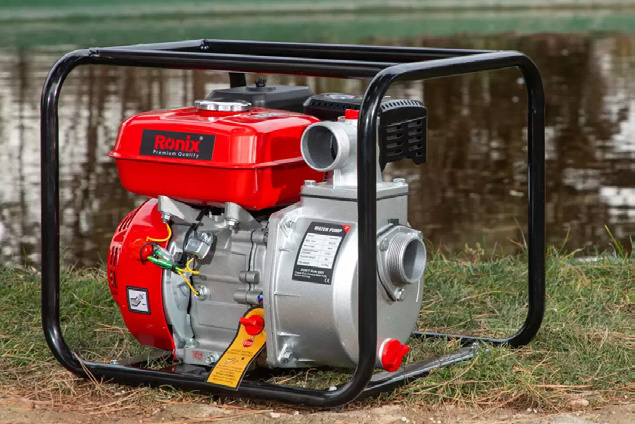
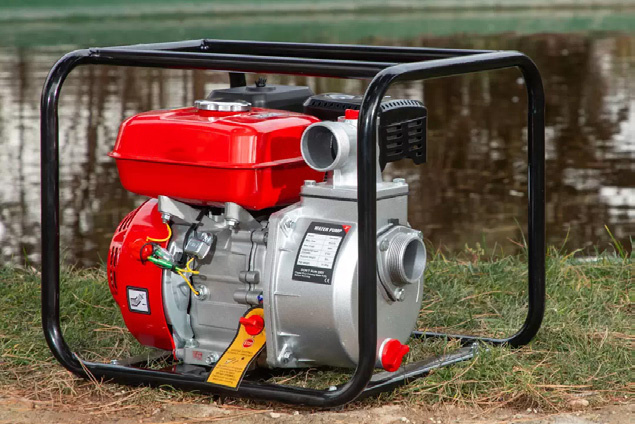
chore: 修正测试配置与站点域名，清理未引用静态资源
- vitest: 别名改为显式声明（vite-tsconfig-paths 在此解析不到，
  失败要到运行期才以 "Cannot find package '@/payload.config'" 暴露）；
  environment 由 jsdom 改 node —— 集成测试要启动真实 Payload 实例，
  jsdom 没有 node: 内置模块和文件系统，test:int 此前死在环境初始化
- tsconfig: 把 tests/ 纳入 typecheck（此前被 exclude，测试里的类型错误
  不会在 CI 的 tsc 步骤暴露）
- .env.example: NEXT_PUBLIC_SITE_URL 由 www.agricon.com 改为 www.agricon.cn。
  .com 那台机器实际在跑一个**无关的 WordPress/WooCommerce 站**，
  照抄示例会让 canonical/sitemap/robots 指向别的网站
- 删除 public/images/ 下 11 张无人引用的图（约 23 MB，含 4.6 MB 的
  home-hero.png；页面 hero 已改走 siteSettings.pageHeroImages）。
  逐个核对过：无任何源码引用，且被引用的 home-hero-agricon.png 仍在
- 更新 3 张产品图（plucker-machine / production-line / water-pump），
  新增 vibrating-screen.jpg 与 og-default.jpg

门禁：typecheck / lint / vitest(67) / build / playwright(12) 全绿

Changed region(s): [[0.2094, 0.3066, 0.3591, 0.3986]]

diff --git a/README.md b/README.md
@@ -17,11 +17,14 @@
 
 - **完整 CMS 后台**（`/admin`）——17 个 Collections 自动生成 CRUD：
   Products / Categories / Subcategories / Solutions / Case Studies / Blog / FAQ / Downloads / Videos / Countries / Inquiries / Newsletter Subscribers / Site Settings 等
-- **六语言本地化**（Payload 原生 i18n），含 RTL（阿拉伯语）支持
+- **六语言本地化**（Payload 原生 i18n + 16 个命名空间的 JSON 文案），含 RTL（阿拉伯语）支持；
+  产品/FAQ/博客内容与页面 `<title>`/描述均已本地化（产品型号保留英文）
 - **移动端优先设计**：44px+ 触控目标、渐进增强、动画系统（滚动显示/过渡/悬浮微交互）
-- **完整 SEO**：六语言 sitemap（72+ URL）、robots.txt、hreflang、JSON-LD、OG/Twitter 卡片
-- **询盘系统**：需求诊断表单（应用场景/现状/采购意图）→ 后台 inquiry 管理
+- **完整 SEO**：六语言 sitemap（468 URL）、robots.txt、canonical/hreflang（含 `x-default`）、
+  JSON-LD（Organization/WebSite/Product/FAQPage/BlogPosting/BreadcrumbList）、OG/Twitter 卡片与默认分享图
+- **询盘系统**：需求诊断表单（应用场景/现状/采购意图）→ 后台 inquiry 管理，含限流与反垃圾
 - **新闻订阅**：全站 Newsletter 组件 → 后台订阅者管理
+- **内容卫生工具**：抓取残留清洗、产品描述修复、翻译流水线（脚本 + 单元测试，见 `docs/MAINTENANCE.md`）
 
 ## 目录结构
 
@@ -44,10 +47,20 @@ src/
 │   ├── home/                # 首页 11 个区块组件
 │   ├── ui/                  # 设计系统原语（Button/Card/Icon/Reveal...）
 │   └── Header.tsx / Footer.tsx / ContactForm.tsx ...
-├── i18n/                    # 翻译（config.ts 全量 + ui.ts 轻量客户端版）
-├── lib/payload.ts           # 数据层（React cache 去重）
-└── proxy.ts                 # 语言路由重定向（Next 16 proxy 约定）
+├── i18n/                    # 翻译（content 在 locales/*.json；config.ts 只做查找）
+│   └── locales/             # 每语言每命名空间一个 JSON 文件（6 语言 × 16 命名空间）
+├── lib/
+│   ├── payload.ts           # 数据层（React cache + unstable_cache 双层缓存）
+│   ├── seo.ts               # canonical/hreflang/metadata/OG 默认图
+│   ├── structured-data.ts   # JSON-LD 构造器（Organization/Product/FAQPage/...）
+│   ├── supplier-text.ts     # 抓取文案清洗（标签、字面量转义、摘要截断）
+│   ├── public-write-guard.ts # 公开写接口的限流 + 反垃圾（beforeValidate hook）
+│   └── rate-limit.ts / anti-spam.ts
+└── proxy.ts                 # 语言路由重定向 + x-pathname（Next 16 proxy 约定）
 ```
+
+> **接手维护先读 [`docs/MAINTENANCE.md`](docs/MAINTENANCE.md)** — 架构地图、常见任务 runbook、
+> 已知坑与排错清单都在那里；本 README 偏「是什么」，那份文档偏「怎么改」。
 
 ## 本地开发
 
@@ -77,20 +90,105 @@ CATALOG_DIR=/path/to/catalog pnpm catalog:import
 
 画册导入会更新英文 CMS 内容，并将产品主图复制到 `public/catalog/products`。
 
-### 多语言内容翻译
+### 多语言内容翻译（CMS 内容）
 
-六语言（en/ru/fr/es/sw/ar）的 CMS 内容（分类、产品、方案、案例）由 LLM 翻译并存入本地化表。翻译文件位于 `scripts/translations/*.json`：
-
-- `{lang}.json` — 分类/子分类/产品特性/方案/案例的短文本
-- `{lang}-products.json` — 产品描述
-
-修改翻译后重新入库（幂等，会更新已有行）：
+CMS 内容的翻译走**三步流水线**，幂等，可对本地 SQLite 或生产 Postgres 执行：
 
 ```bash
-node scripts/import-translations.mjs
+pnpm tsx scripts/i18n-extract-todo.ts          # 1. 导出待翻译清单 → scripts/translations/_todo/
+#    用 LLM/译者把 _todo/<lang>-{ui,content}.json 翻译为 <lang>-…-translated.json
+pnpm tsx scripts/i18n-apply-todo.ts            # 2. 先 dry-run，看会改哪些字段
+pnpm tsx scripts/i18n-apply-todo.ts --apply    # 3. 写回 JSON 文案 + CMS 内容
 ```
 
-> 产品名保留英文技术术语；`seo_title` 按 `{产品名} | Agricon {语言后缀}` 自动生成；`seo_description` 复用翻译后的描述。
+- 导出**只包含缺失或与英文逐字相同**的字符串，所以重复运行不会重复翻译，也不会覆盖已润色的译文。
+- 应用时逐条回读断言，失败打印 `✗`，不会出现「报告成功但没写进去」。
+- 翻译键：产品/子分类等按 **slug**；产品特性与规格标签按**英文原文**（同一句只翻一次，43 个产品共享词表）。
+- `_todo/` 与 `*-translated.json` 都入库，可追溯每句话的来源与时间。`--round2` 只导出「产品描述 + FAQ 答案」，用于内容修复后的补翻。
+- 支持 `--lang=ru`、`--round=1|2` 限定范围。
+
+> **产品名保留英文**（`H-Type Layer Cage` 这类型号正是海外买家搜索的词），翻译的是描述、特性、
+> 规格标签、SEO 文案与页面元数据。
+>
+> 产品 FAQ 答案是 richText：应用时以**英文文档为模板**只替换文本，避免手搓 Lexical 结构被
+> Payload 校验拒绝（`The following field is invalid: Answer`）。
+>
+> 历史包袱：上一版 `import-translations.mjs` 按 `_parent_id` 写入，而 9 月的画册重导入换掉了
+> 所有产品 ID，脚本指向的是一套已经不存在的 64 条记录 —— 它从未真正生效过，已删除。
+
+### SEO 与结构化数据
+
+| 项目 | 实现 | 说明 |
+|---|---|---|
+| canonical / hreflang | `src/lib/seo.ts` → `localizedAlternates()` | 6 语言 + `x-default`，逐页校验 0 例外 |
+| 页面 metadata | `pageMetadata(locale, { path, namespace, key })` | 文案优先级：`t.meta.*` → `t.hero.*` → 调用方英文兜底，因此标题/描述随语言走 |
+| Open Graph / Twitter | 同上 + `DEFAULT_OG_IMAGE` | 默认分享图 `public/images/og-default.jpg`（1200×630，约 130 KB，`node scripts/generate-og-image.mjs` 可重新生成） |
+| JSON-LD | `src/lib/structured-data.ts` + `<JsonLd>` | 全站 `Organization` + `WebSite`（含 SearchAction）；产品页 `Product` + `BreadcrumbList`；FAQ 页 `FAQPage`；博客/案例详情 `BlogPosting` |
+
+> 之前这四项里有两项是**声明了但不存在**的：README 写着「完整 SEO：JSON-LD」，实际全站 0 处
+> `application/ld+json`；`og:image` 只在产品详情页有，其余页面分享出去没有缩略图
+> （`payload.config.ts` 里那张图只作用于 Payload 后台）。
+>
+> 结构化数据只在**有真实数据时**输出字段：`offers` 仅在价格能解析出金额且带币种时写入 ——
+> 一个没有价格的 `Offer` 会让 Google 整条 `Product` 失效。
+
+### 抓取内容卫生
+
+产品文案来自阿里国际站抓取，带有三样必须在入库前后清理的脏数据：
+
+```bash
+pnpm tsx scripts/cleanup-supplier-copy.ts --check   # CI：还有残留就退出 1
+pnpm tsx scripts/cleanup-supplier-copy.ts --apply   # 清洗（幂等，所有语言）
+pnpm tsx scripts/repair-product-copy.ts  --apply    # 重新派生被截断的产品描述
+```
+
+| 脏数据 | 例子 | 处理 |
+|---|---|---|
+| 供应商页面标签 | `Product descriptions from the supplier Report abuse Highlights at a glance` | `src/lib/supplier-text.ts` 的 `stripSupplierBoilerplate()`，导入时与存量数据都清 |
+| 导航栏文字 | `Product Overview Complete Farm Solution Proof of Execution Project Cases` | 同上（标签表可扩展） |
+| 字面量转义 | 特征值是 12 个字符的 `\uD83C\uDFED` 而不是 🏭 | `decodeLiteralUnicodeEscapes()`，文本/HTML/数组字段全覆盖 |
+| 截断描述 | `"This 4."`、`"…by up to 80 perce"` | `repair-product-copy.ts` 用产品自身的 `overviewHtml` 重新派生，`summarizeCopy()` 按句子→词边界截断，绝不切半个词 |
+
+导入脚本（`scripts/import-alibaba-catalogue.ts`）已改为调用同一套函数，因此**重新导入不会把脏数据带回来**。
+
+### 分类归属与重复产品
+
+```bash
+pnpm tsx scripts/move-subcategory.ts --from=<旧子分类> --to=<新子分类>        # 预演，加 --apply 执行
+pnpm tsx scripts/delete-product.ts   --slug=<要删的> --redirect-to=<要留的>   # 预演，加 --apply 执行
+```
+
+分类卡的顺序与名称由 `sortOrder` / `name` 决定，顺序不本地化、改一次 6 种语言同时生效：
+
+```bash
+pnpm tsx scripts/reorder-subcategories.ts --category=<分类 slug> --order=slug1,slug2,... --apply
+pnpm tsx scripts/reorder-subcategories.ts --category=<分类 slug> --rename=<slug>:"New Name" --locale=en --apply
+```
+
+分类的顺序和英文名以 `docs/scrape/taxonomy-*.json`（用户指定的分类稿）为准。
+
+改产品名称而不动 URL（`name` 与 `seoTitle` 按语言存储，脚本会把 6 种语言一起写并读回校验）：
+
+```bash
+pnpm tsx scripts/rename-products.ts --rename=<slug>:"New Name" --apply
+```
+
+按客户给的产品清单**增量补产品**（不清库；已存在的只改名/移动，缺的才新建）：
+
+```bash
+pnpm tsx scripts/import-links.ts           # 预演
+pnpm tsx scripts/import-links.ts --apply    # 执行
+```
+
+读取 `docs/scrape/alibaba-links-*.jsonl`（BrowserSkill 抓的页面数据）+
+`docs/scrape/import-names-*.json`（sku → 子分类 + 型号级名称）。细节见
+[`docs/MAINTENANCE.md`](docs/MAINTENANCE.md) §3.12 与 §11。
+
+两条都会改产品 URL（URL 里含分类/子分类），**必须**把脚本打印的 308 重定向贴进 `next.config.ts`。
+分类归属以 `docs/scrape/taxonomy-*.json` 的 `groups` 为准，不要按子分类名字猜；细节见
+[`docs/MAINTENANCE.md`](docs/MAINTENANCE.md) §3.9 与 §10。
+
+> 目前有 49 个子分类暂时没有产品（未来会上），点进去的 "Products Coming Soon" 是**预期行为**，不要删。
 
 ### 设计系统
 
@@ -112,22 +210,92 @@ node scripts/import-translations.mjs
 
 > ⚠ **SQLite schema 同步（重要）**：本机 `PAYLOAD_PUSH_SCHEMA=false` 已写入 `.env`。
 > `@payloadcms/db-sqlite` 的 push 模式在 Windows/libsql 上会反复尝试创建已存在的索引并崩溃
-> （`index xxx already exists`）。修改 collection 字段后需手动同步开发库，例如：
+> （`index xxx already exists`），因此**开发库的 schema 必须手动同步**。
+>
+> 修改 collection 字段后运行：
 >
 > ```bash
-> # 添加缺失列（videos 表曾缺 platform/published）
-> node -e "const {createClient}=require('@libsql/client');const db=createClient({url:'file:agricon-dev.db'});(async()=>{await db.execute(\"ALTER TABLE videos ADD COLUMN platform TEXT DEFAULT 'youtube'\");await db.execute(\"ALTER TABLE videos ADD COLUMN published INTEGER DEFAULT 1\");})()"
+> pnpm tsx scripts/sync-dev-schema.ts --check   # 只报告差异，有差异时退出码 1
+> pnpm tsx scripts/sync-dev-schema.ts           # 补齐缺失的表/列（幂等）
 > ```
 >
+> 该脚本只增不减：只创建缺失的表/列/索引，绝不删除或改动已有数据。
+>
+> **为什么必须做**：`Products` 曾新增 `faqs` 与 `detailImages` 两个数组字段，但对应的
+> `products_faqs` / `products_detail_images` 表从未创建。结果是**每一次**
+> `payload.find({ collection: 'products' })` 都报
+> `SQLITE_ERROR: no such table: products_faqs` —— 产品列表、全部产品详情页、
+> 首页产品区块和 sitemap 全部失效，`src/payload-types.ts` 也随之漂移。
+> 脚本已修复本机开发库（此前 11 个缺失对象）。
+>
+> 同步 schema 后记得重新生成类型：`pnpm generate:types`。
+
+> ### 生成类型不入库（重要）
+>
+> `src/payload-types.ts` 被 `.gitignore` 忽略，**不存在于仓库中**。因此任何全新克隆都必须
+> 先生成它，否则 `tsc` 会因 `Product.faqs` 等字段缺失而报错。已把生成步骤接入脚本：
+> `pnpm test`、`pnpm ci`、`pnpm vercel-build` 都会先执行 `payload generate:types`。
+
 > ### 种子内容（后台与前台对齐）
 >
-> 前台曾用硬编码 fallback 展示博客/FAQ，导致后台管理无效。内容已导入 CMS：
+> 前台曾有硬编码 fallback 展示博客/FAQ，导致后台管理无效。内容已导入 CMS：
 >
 > ```bash
 > pnpm tsx scripts/seed-fallback-content.ts   # 3 篇博客 + 8 条 FAQ（幂等）
 > ```
 >
-> 前台仍有 fallback 作为空库兑底（数据库为空时展示），后台添加/编辑内容后会优先使用数据库数据。
+> ### 方案 ↔ 产品双向关系同步
+>
+> `solutions.products` 与 `products.solutions` 是**两个各自独立的字段**，Payload 不会自动同步。
+> 画册导入脚本只写了 `products.solutions`（56 行），`solutions.products` 全为空，
+> 因此后台打开方案看不到任何产品。运行：
+>
+> ```bash
+> pnpm tsx scripts/sync-solution-products.ts --check   # 只报告差异
+> pnpm tsx scripts/sync-solution-products.ts           # 补齐（幂等，只增不删）
+> ```
+
+## 渲染与缓存策略
+
+前台页面（`src/app/(frontend)/[locale]/**`）**使用 `force-dynamic` 按请求渲染**，而不是静态生成。
+这是一个刻意的取舍，原因写在 `[locale]/layout.tsx`：数据库内容在请求时读取，
+`next build` 因此不需要连接生产数据库，首次部署到 Vercel 时由 Payload push 建表，构建不会失败。
+
+代价是每次请求都会查询数据库。为了把成本压下来，数据层（`src/lib/payload.ts`）套了两层缓存：
+
+| 层 | 机制 | 作用 |
+|---|---|---|
+| 跨请求 | `unstable_cache`（TTL 300s，站点设置 60s） | 同一 collection 每 5 分钟才真正查一次库 |
+| 单次渲染内 | React `cache()` | 首页 8+ 个区块各自请求同一 collection 时只查一次 |
+
+两点实现细节：
+
+- **查询深度是性能关键**。`getProducts` 使用 `depth: 1`。用 `depth: 2` 时 Payload 会额外展开
+  `product.solutions`，而方案与产品是**双向关系**，每个被展开的方案会把自身的 `products`
+  数组再带回来——结果从 503KB 膨胀到 8.1MB（每个语言、每次请求），并且超过 Next 数据缓存
+  2MB 上限而根本无法缓存。需要分类 slug 时用 `resolveProductCategorySlug()` 从
+  （同样被缓存的）子分类列表里查。
+- 在没有 Next 请求上下文的环境（Vitest、`scripts/*.ts`）调用数据层时，
+  `unstable_cache` 会抛 `incrementalCache missing`；缓存层会捕获该错误并降级为直连查询，
+  同时打印一次提示。
+
+后续若要改为静态生成，需要先把 `[locale]/layout.tsx` 中对 `headers()` 的依赖
+（`x-pathname` → hreflang/canonical、`<html lang>`）改为由路由 `params` 推导。
+
+## 公开写接口的防护
+
+`/api/inquiries` 与 `/api/newsletterSubscribers` 必须允许匿名写入（联系表单不能要求登录）。
+为避免被脚本刷库与邮件轰炸，加了两层防护：
+
+- **限流**：`src/lib/rate-limit.ts`，每 IP 每 10 分钟 5 次，超限返回 `429`。
+  计数器在进程内存中，因此在 Vercel 上是**按实例**生效（N 个热实例 ≈ 上限 ×N），
+  而非全局硬上限。需要严格全局限制时把 `consume()` 换成共享存储（Redis/KV），调用点不用改。
+- **反垃圾**：`src/lib/anti-spam.ts`，蜜罐字段（`companyWebsite`）+ 提交耗时校验
+  （2.5 秒 ~ 12 小时）+ 关键词/链接数/拉丁字段西里尔字母启发式。被判定为垃圾时返回 `400`，
+  且**不告诉提交者**是哪一项触发的。
+- 已登录的后台用户跳过启发式校验（他们没有蜜罐/时间令牌）。
+
+两个集合都通过 `virtual: true` 声明蜜罐字段，所以它永远不会被写入数据库，也不会出现在后台表单里。
 
 ## 环境变量
 
@@ -161,31 +329,36 @@ node scripts/import-translations.mjs
 
 本地开发管理员：`admin@agricon.com`（密码见本地 scripts 或首次创建）。
 
-## 上线检查清单（2026-08 已全部验证）
+## 上线检查清单（2026-09-18 全站复检）
 
 ### ✅ 页面与数据
 
-- 6 语言 × 14 主要页面全部 200（首页 308 重定向正常）
-- 43 产品 / 10 分类 / 70 子分类 / 12 案例 / 6 方案 全部可访问
-- 354 个代码引用的 catalog 图片文件全部存在；全站扫描 0 破损图片、0 4xx、0 控制台错误
-- 数据库无孤儿引用、无空/重复 slug；media 全有 url；产品全有图
-- 首页 hero 已本地化 5 语言；各页面 hero 图片后台可配（`siteSettings.pageHeroImages`）
+- sitemap 468 个 URL（6 语言 × 78）全部 200；0 坏页、0 死链、0 破损图片（793 个资源按 GET 校验）
+- canonical / hreflang（含 `x-default`）逐页正确：468 页 0 例外；`lang` / `dir`（ar = rtl）正确
+- 每页恰好 1 个 `h1`，`<img>` 全部有 alt，404 页正常返回 404，manifest 正常
+- 每页都有 JSON-LD：`Organization` + `WebSite`，产品/FAQ/博客页另有对应类型
+- CMS 内容本地化覆盖率：products 43/43、faqs 8/8、blogPosts 3/3 在 5 种语言下均非英文
+- 界面文案：非英语语言的「与英文逐字相同」比例从 41% 降到 **2%**
 
 ### ✅ 功能与交互
 
 - 搜索（`/search?q=`）正常；语言切换保持当前路径（`/en/about → /ru/about`）
-- 移动端 13 页无横向溢出；汉堡菜单正常
-- 产品详情页：画廊缩略图单排滑动 + 大图箭头切换；Technical Information sticky；
-  两列等高；无价格/MOQ/噪音标签（Agricon…、alibaba-… 已过滤）
-- 产品页 “Request Quote” → 联系表单自动预填产品名
-- 询盘表单提交 → 后台入库 → SMTP 邮件通知（配置后）
-- 阿拉伯语 RTL 正常；安全头（CSP/HSTS/X-Frame）完整；robots/sitemap/404 正常
+- 产品详情页：Related Products 卡片链接逐个校验 200（此前 33/43 页面的相关产品链接是 404）
+- 产品页正文不再出现 `Report abuse` / 供应商标签 / 字面量 `\uXXXX` 转义
+- 询盘表单提交 → 后台入库 → SMTP 邮件通知（配置后）；限流与反垃圾仍生效（429 / 400）
+- 安全头（CSP/HSTS/X-Frame/Referrer/Permissions）完整；`X-Powered-By` 已关闭
+- `/admin` 后台可正常打开（未登录 200 到登录页）
 
 ### ⚠ 上线后待办
 
-- **多语言翻译续完**：blog 第 2/3 篇、FAQ 7 条仍为英文（MyMemory 免费配额每日限制）：
-  `PYTHONIOENCODING=utf-8 python scripts/translate-blog-faq.py`（幂等，可次日重跑）
 - **Videos / Downloads** 为空（前台显示空态），上线后后台添加
+- **aquaculture / breeding-house 方案暂无关联产品**：这两个方案下所有子分类
+  （鱼塘/增氧机/温室/风机等）产品数为 0，这是画册数据本身为空，不是代码问题。
+  前台该区块会整体隐藏（不留空标题）。补齐产品后会自动出现。
+- **Footer 二维码**：`siteSettings.tiktokQrCode` / `instagramQrCode` 为空时整个二维码区块隐藏。
+- **产品长文 `overviewHtml` 仍为英文**（见「界面文案维护」的已知取舍）。
+- **机器翻译需母语复核**：本次 5 语言译文由 LLM 生成（术语表与专有名词已约束），
+  上线前建议让母语者过一遍 `faq` / `contact` / `distributors` 与产品描述。
 - 定期备份：`pnpm backup`（数据库 + media，保留 7 份）
 
 ### 🔧 生产环境配置提醒
@@ -196,12 +369,28 @@ node scripts/import-translations.mjs
 
 ## 质量门禁
 
+四条都必须通过：
+
 ```bash
-npm run lint        # ESLint 0 error 0 warning
-npx tsc --noEmit    # TypeScript 0 error
-npm run build       # 生产构建（94 静态页）
-npm test            # Vitest + Playwright（可选）
+pnpm lint         # ESLint 0 error 0 warning
+pnpm typecheck    # TypeScript 0 error（覆盖 src/ 与 tests/，scripts/ 不参与）
+pnpm build        # 生产构建
+pnpm test:int     # Vitest 集成测试
+pnpm test:e2e     # Playwright（需要 dev server）
 ```
+
+> `pnpm test` = `generate:types` → `test:int` → `test:e2e`。它先重新生成类型，因此在新克隆的
+> 仓库上也能直接跑通。
+>
+> `tests/int` 使用 `environment: 'node'`（不是 jsdom）并显式声明 `@/*` 别名：
+> 这些 spec 会启动真实的 Payload 实例，jsdom 缺少 `node:` 内置模块与文件系统。
+> 当前覆盖 63 项：数据层关系解析、限流、反垃圾启发式、抓取文案清洗
+> （`supplier-text`）、结构化数据构造（`structured-data`）、六语言命名空间与文案一致性
+> （`i18n-parity`）。
+>
+> **全站爬虫**（不在 `pnpm test` 里，需要 dev server 在跑）：`scripts/check-links.cjs`
+> 可做基础链接检查；本轮审计用的是按 sitemap 全量抓取 + 逐资源校验的方式，
+> 注意**用 GET 而不是 HEAD** 校验 `/api/media/file/*`（Payload 对 HEAD 返回 404）。
 
 ## 业务设计来源
 
@@ -215,14 +404,50 @@ npm test            # Vitest + Playwright（可选）
 
 原 Astro + Cloudflare Workers 版本保留在 `D:\Agricon_Website`（迁移前的历史版本）。
 
-### 多语言内容维护(博客/FAQ)
+> 已删除的旧工具：`scripts/translate-blog-faq.py`、`scripts/translate-content.py`（基于 MyMemory
+> 免费配额，逐条调用外部 API）与 `scripts/import-translations.mjs`。它们被
+> `i18n-extract-todo.ts` → 译者/LLM → `i18n-apply-todo.ts` 取代：新流水线不依赖外部配额、
+> 逐条断言写回，并且只翻译真正缺失的字符串。历史版本仍可在 git 中找到。
 
-博客与 FAQ 的翻译使用免费的 MyMemory API(免费版每日有配额):
+## 界面文案（i18n）维护
 
-```bash
-PYTHONIOENCODING=utf-8 python scripts/translate-blog-faq.py
+界面文案的**唯一来源**是 `src/i18n/locales/<locale>/<namespace>.json`（6 种语言同构，16 个命名空间）：
+
+```
+common       nav/cta/footer/home/aria/meta（footer 内容内嵌在 common.footer）
+contact      contact 页 + 询盘表单 + 需求诊断下拉项
+productDetail 产品详情页      faq / distributors / trade-support  对应页面
+search       搜索页          videos / privacy / terms / aria     对应页面
+blog         博客列表+详情（hero / meta / badge / backToBlog / tags 标签词典）
+pages        about / caseStudies / products / solutions 四个页面的 meta 标题与描述
 ```
 
-- 幂等:已存在的语言行会跳过,配额耗尽后**次日重跑**即可续完
-- 支持 `--langs ru,fr,es,sw,ar` 与 `--limit N`
-- richText(content/answer)以 lexical JSON 结构递归翻译文本节点,不破坏结构
+`src/i18n/config.ts` 只保留语言元数据与 `getTranslations(locale, namespace)`，**不内联任何字符串**。
+查找顺序是「英文 namespace → 该语言 namespace」深度合并，漏翻的键回退英文而不是显示空白。
+
+两条硬约束（由 `tests/int/i18n-parity.int.spec.ts` 强制）：
+
+1. **命名空间与键必须与英文完全一致** —— 少一个键、多一个文件都会让测试失败。
+2. **每个命名空间的「与英文逐字相同」比例必须 < 20%**（当前全站 2%）。
+
+> 这条测试是补债：历史上 `blog` 命名空间只有 `fr`、`solutions` 只有 `sw`，而**没有任何页面读它们**，
+> 于是法语博客页显示英文、斯瓦希里方案页显示英文，那两个文件纯属死代码；同时 5 种语言的
+> `distributors` / `faq` 是 100% 英文。现在两个命名空间对所有语言齐备并真正接线。
+>
+> 同理删除的还有 `footer.json`：它和 `common.footer` 逐字重复且无人引用。
+
+客户端组件（`Header`、`Newsletter`、`ContactForm` 等）不导入 `config.ts`，而是用更小的
+`src/i18n/ui.ts`，避免把全部语言数据打进客户端包。
+
+### 还没翻译的部分（已知取舍）
+
+- **产品长文 `overviewHtml`** 仍是英文：43 个产品 × 平均 4 KB × 5 语言 ≈ 87 万字符，机器翻译不划算。
+  产品页在该区块标注了 `lang="en"`，浏览器与读屏软件会据此切换语言规则，而不是拿阿拉伯语字形去排英文。
+- **产品名**按要求保留英文技术型号（见上文）。
+
+> 除以上两项，全站其它内容（界面文案、页面 metadata、首页 CMS 区块、产品描述/特性/规格、
+> FAQ、博客、案例摘要、页脚地址与标语）**已完成 5 语言本地化**。首页曾经是"数据没本地化 +
+> 组件不传 locale"的双重问题，2026-09-18 已修完，迁移与回滚方式见
+> [`docs/MAINTENANCE.md`](docs/MAINTENANCE.md) §8。
+
+> 接手维护请看 [`docs/MAINTENANCE.md`](docs/MAINTENANCE.md)：架构地图、常见任务 runbook、已知坑与排错清单。
